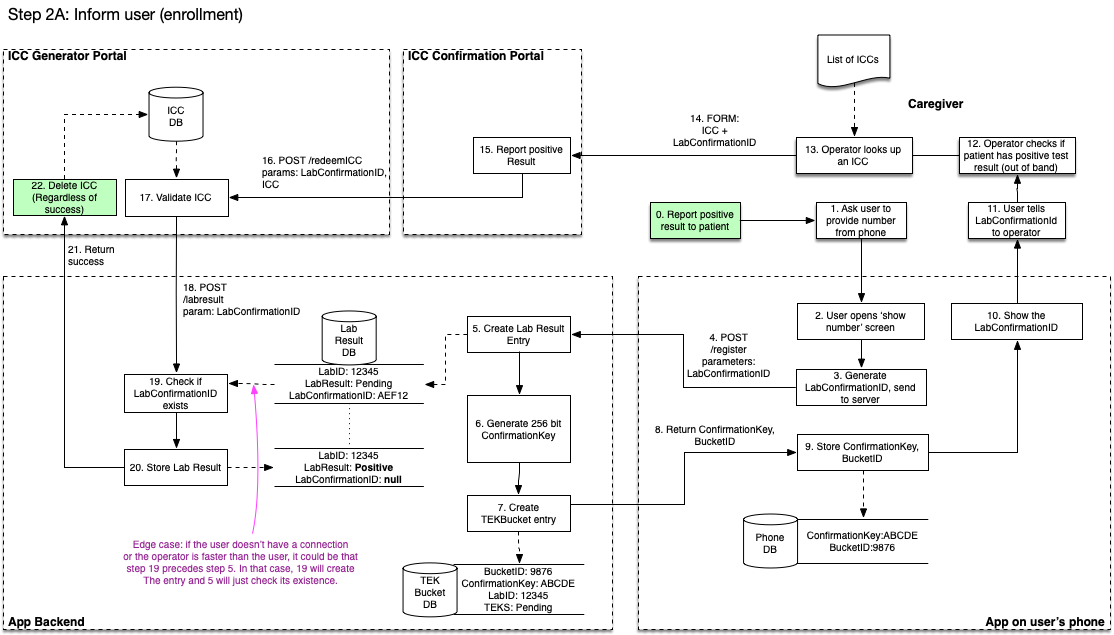
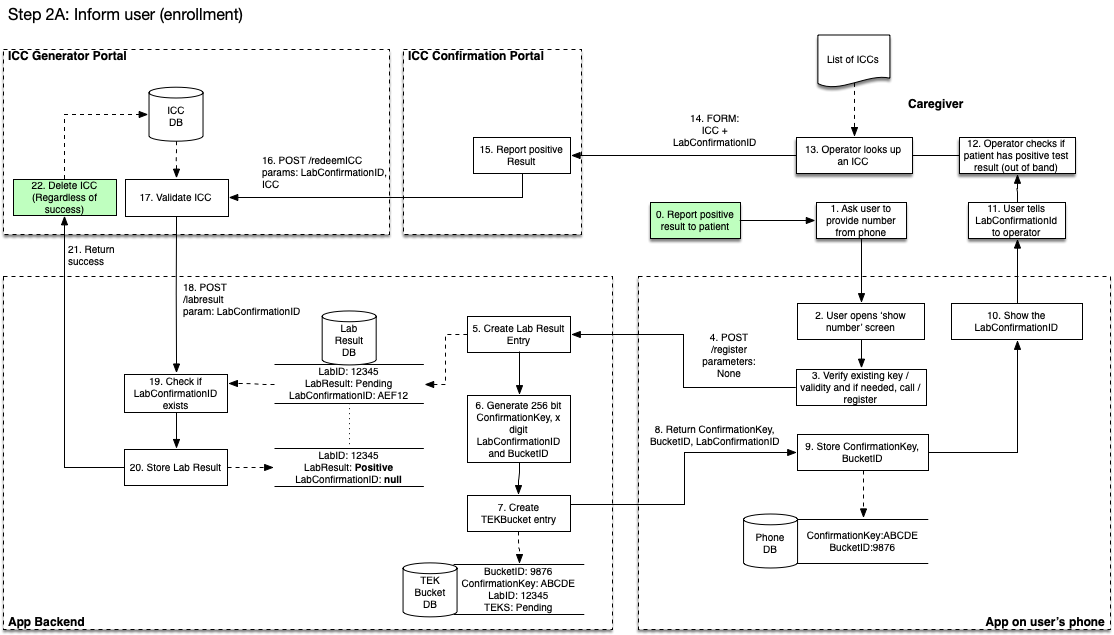
Moved labConfirmationID to a server side generated variable so we can better protect against collisions. Also added validUntil to the key.

diff --git a/architecture/Solution Architecture.md b/architecture/Solution Architecture.md
@@ -266,7 +266,7 @@ When the patient is called, a token is exchanged for a 256 bit key. The shorter 
 
 Note that although the process has many steps, for the user this is just the part where the caller ask the user for a code. 
 
-Note 2: we have chosen to have the user read a code to the operator instead of the other way round, to avoid mistakes. The app should help the user read the correct code. 
+Note 2: we have chosen to have the user read a code to the operator instead of the other way round, to a) avoid mistakes and b) not give the app 'proof' that the user is infected. The app should help the user read the correct code. 
 
 ![Phase 2: Step A key exchange](images/variant1_step2A_enrollment.png)
 
